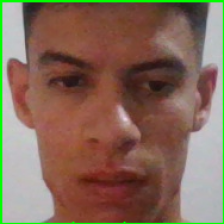
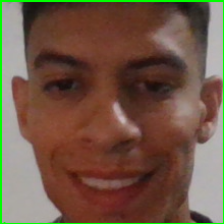
ADD: Emotion to database with timestamp added successful

diff --git a/src/main.py b/src/main.py
@@ -7,22 +7,26 @@ from utils import crop_face
 from utils import image_preprocessing
 from utils import save_image
 from utils import save_image_crop
+from db.database import EmotionDatabase
+
+db = EmotionDatabase()
+
+db.add_emotion("happy")
+db.close()
 
 # Open the default camera
-
 cam = cv2.VideoCapture(0)
 
-
 # Detect face object haarcascade
-detect_face = cv2.CascadeClassifier('../model/haarcascade_frontalface_default.xml')
+detect_face = cv2.CascadeClassifier("../model/haarcascade_frontalface_default.xml")
 
 # Get the default frame width and height
 frame_width = int(cam.get(cv2.CAP_PROP_FRAME_WIDTH))
 frame_height = int(cam.get(cv2.CAP_PROP_FRAME_HEIGHT))
 
 # Define the codec and create VideoWriter object
-fourcc = cv2.VideoWriter_fourcc(*'mp4v')
-out = cv2.VideoWriter('output.mp4', fourcc, 20.0, (frame_width, frame_height))
+fourcc = cv2.VideoWriter_fourcc(*"mp4v")
+out = cv2.VideoWriter("output.mp4", fourcc, 20.0, (frame_width, frame_height))
 
 # Define rectangle positions
 x0, y0 = 200, 300
@@ -35,7 +39,7 @@ font = cv2.FONT_HERSHEY_SIMPLEX
 model_path = "../model/model-26-0.7175.h5"
 
 # Machine Learning Model class
-CLASS_NAMES = ['angry', 'fear', 'happy', 'neutral', 'sad'] 
+CLASS_NAMES = ["angry", "fear", "happy", "neutral", "sad"]
 
 emd = EmotionDetection(class_names=CLASS_NAMES)
 model = emd.load(model_path)
@@ -53,18 +57,18 @@ while True:
     # detect face from frame
     rgb_frame = cv2.cvtColor(frame, cv2.COLOR_BGR2RGB)
     face = detect_face.detectMultiScale(rgb_frame, 1.2, 3)
-    
-    # iterate over position and dimensions of the rectangle 
+
+    # iterate over position and dimensions of the rectangle
     # from cascade classifier
     for x, y, w, h in face:
         # get frame position and dimensions
         pos = [x, y]
         dim = [w, h]
-        
+
         # define text position coordinates
         text_pos_x = x
         text_pos_y = y + h + 20
-        
+
         face_image_crop = crop_face(frame=frame, pos=pos, dim=dim)
         image_array = image_preprocessing(face_image_crop)
 
@@ -72,22 +76,42 @@ while True:
         class_name, confidence = emd.make_predictions(image_array, model)
         end_time = time.time()
         print(f"Time taken for prediction: {round(end_time - start_time, 2)}s")
-        
+
         # return rectangle from face
-        ret = cv2.rectangle(frame, (x, y), (x + w, y + h), color=(0, 255, 0), thickness=2)
-        cv2.putText(frame, f'{class_name}', (text_pos_x, text_pos_y), fontFace=font, fontScale=1, color=(0, 255, 0), thickness=2, lineType=cv2.LINE_AA)
-        cv2.putText(frame, f'{confidence}%', (text_pos_x, text_pos_y + 30), fontFace=font, fontScale=1, color=(0, 255, 0), thickness=2, lineType=cv2.LINE_AA)
-        
+        ret = cv2.rectangle(
+            frame, (x, y), (x + w, y + h), color=(0, 255, 0), thickness=2
+        )
+        cv2.putText(
+            frame,
+            f"{class_name}",
+            (text_pos_x, text_pos_y),
+            fontFace=font,
+            fontScale=1,
+            color=(0, 255, 0),
+            thickness=2,
+            lineType=cv2.LINE_AA,
+        )
+        cv2.putText(
+            frame,
+            f"{confidence}%",
+            (text_pos_x, text_pos_y + 30),
+            fontFace=font,
+            fontScale=1,
+            color=(0, 255, 0),
+            thickness=2,
+            lineType=cv2.LINE_AA,
+        )
+
         save_image(image=face_image_crop)
-        
+
         # Write the frame to the output file
         out.write(frame)
-        
+
     # Display the captured frame
-    cv2.imshow('Camera', frame)
+    cv2.imshow("Camera", frame)
 
     # Press 'q' to exit the loop
-    if cv2.waitKey(1) == ord('q'):
+    if cv2.waitKey(1) == ord("q"):
         break
 
 # Release the capture and writer objects

diff --git a/src/db/database.py b/src/db/database.py
@@ -1,0 +1,44 @@
+import mysql.connector
+import os
+from dotenv import load_dotenv
+from datetime import datetime
+from core.logging import setup_logging
+
+setup_logging()
+load_dotenv()
+
+class EmotionDatabase:
+    def __init__(self):
+        self.connection = mysql.connector.connect(
+            host=os.getenv("DB_HOST"),
+            user=os.getenv("DB_USER"),
+            password=os.getenv("DB_PASSWORD"),
+            database=os.getenv("DB_DATABASE")
+        )
+        self.cursor = self.connection.cursor()
+
+    def add_emotion(self, emotion: str):
+        """Insert a new emotion record into the emotions table."""
+        query = """
+        INSERT INTO emotions (emotion, timestamp)
+        VALUES (%s, %s)
+        """
+        values = (emotion, datetime.now())
+        self.cursor.execute(query, values)
+        self.connection.commit()
+        print(f"[✅] Emotion '{emotion}' inserted successfully.")
+
+    def close(self):
+        """Close cursor and database connection."""
+        if self.cursor:
+            self.cursor.close()
+        if self.connection:
+            self.connection.close()
+        print("[🔒] Database connection closed.")
+
+
+# Example usage
+if __name__ == "__main__":
+    db = EmotionDatabase()
+    db.add_emotion("happy")
+    db.close()

diff --git a/src/core/logging.py b/src/core/logging.py
@@ -1,0 +1,7 @@
+import logging
+
+def setup_logging():
+    logging.basicConfig(
+        level=logging.INFO,
+        format="%(asctime)s %(levelname)s [%(name)s] %(message)s"
+    )
